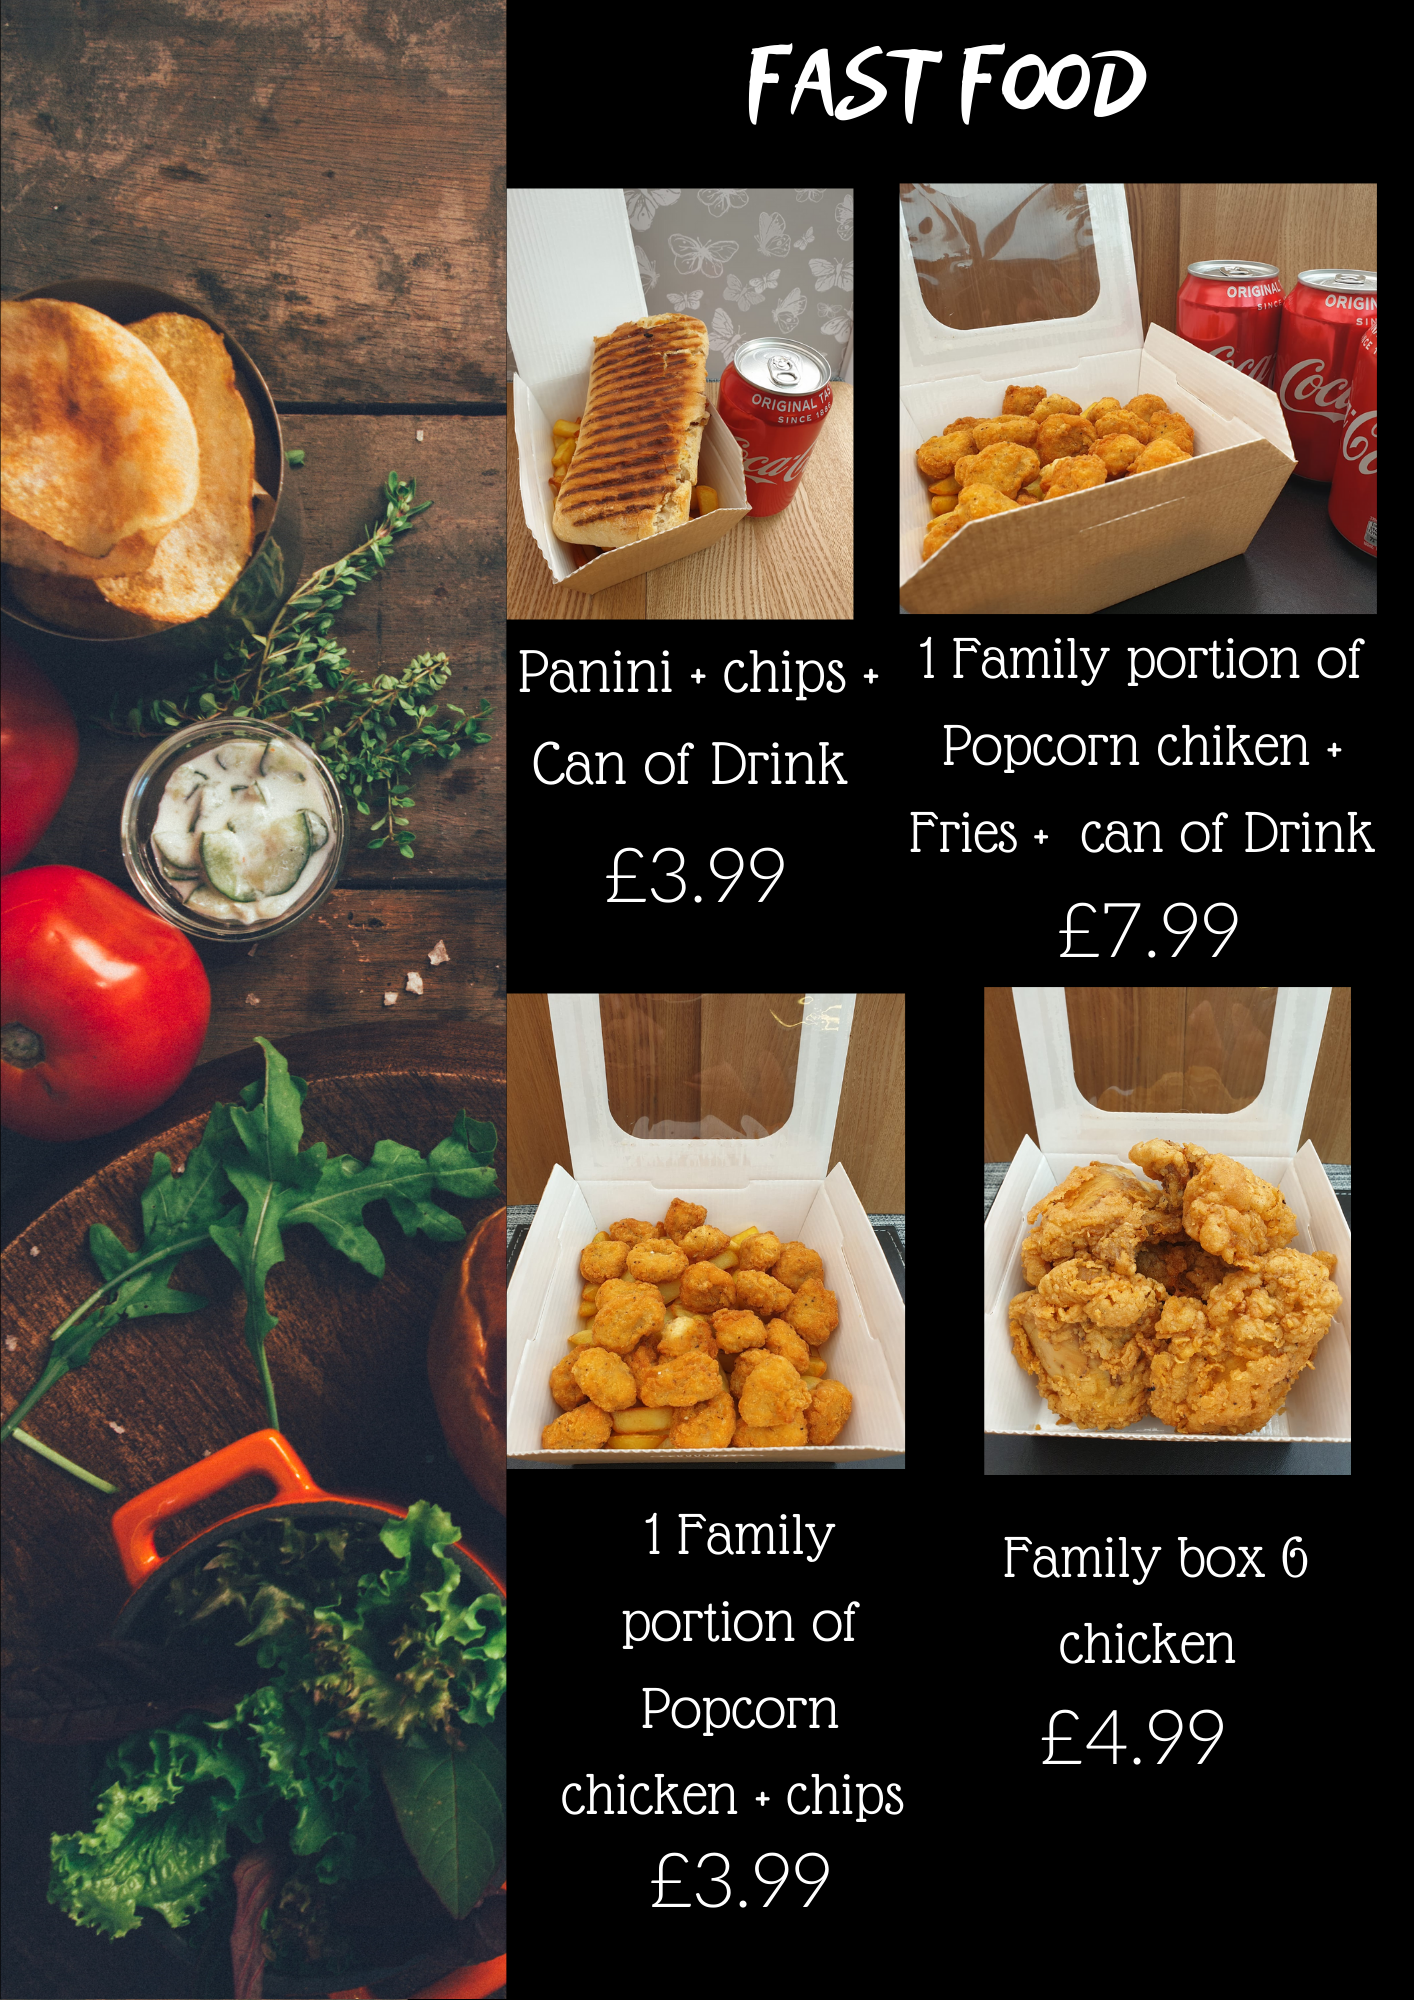
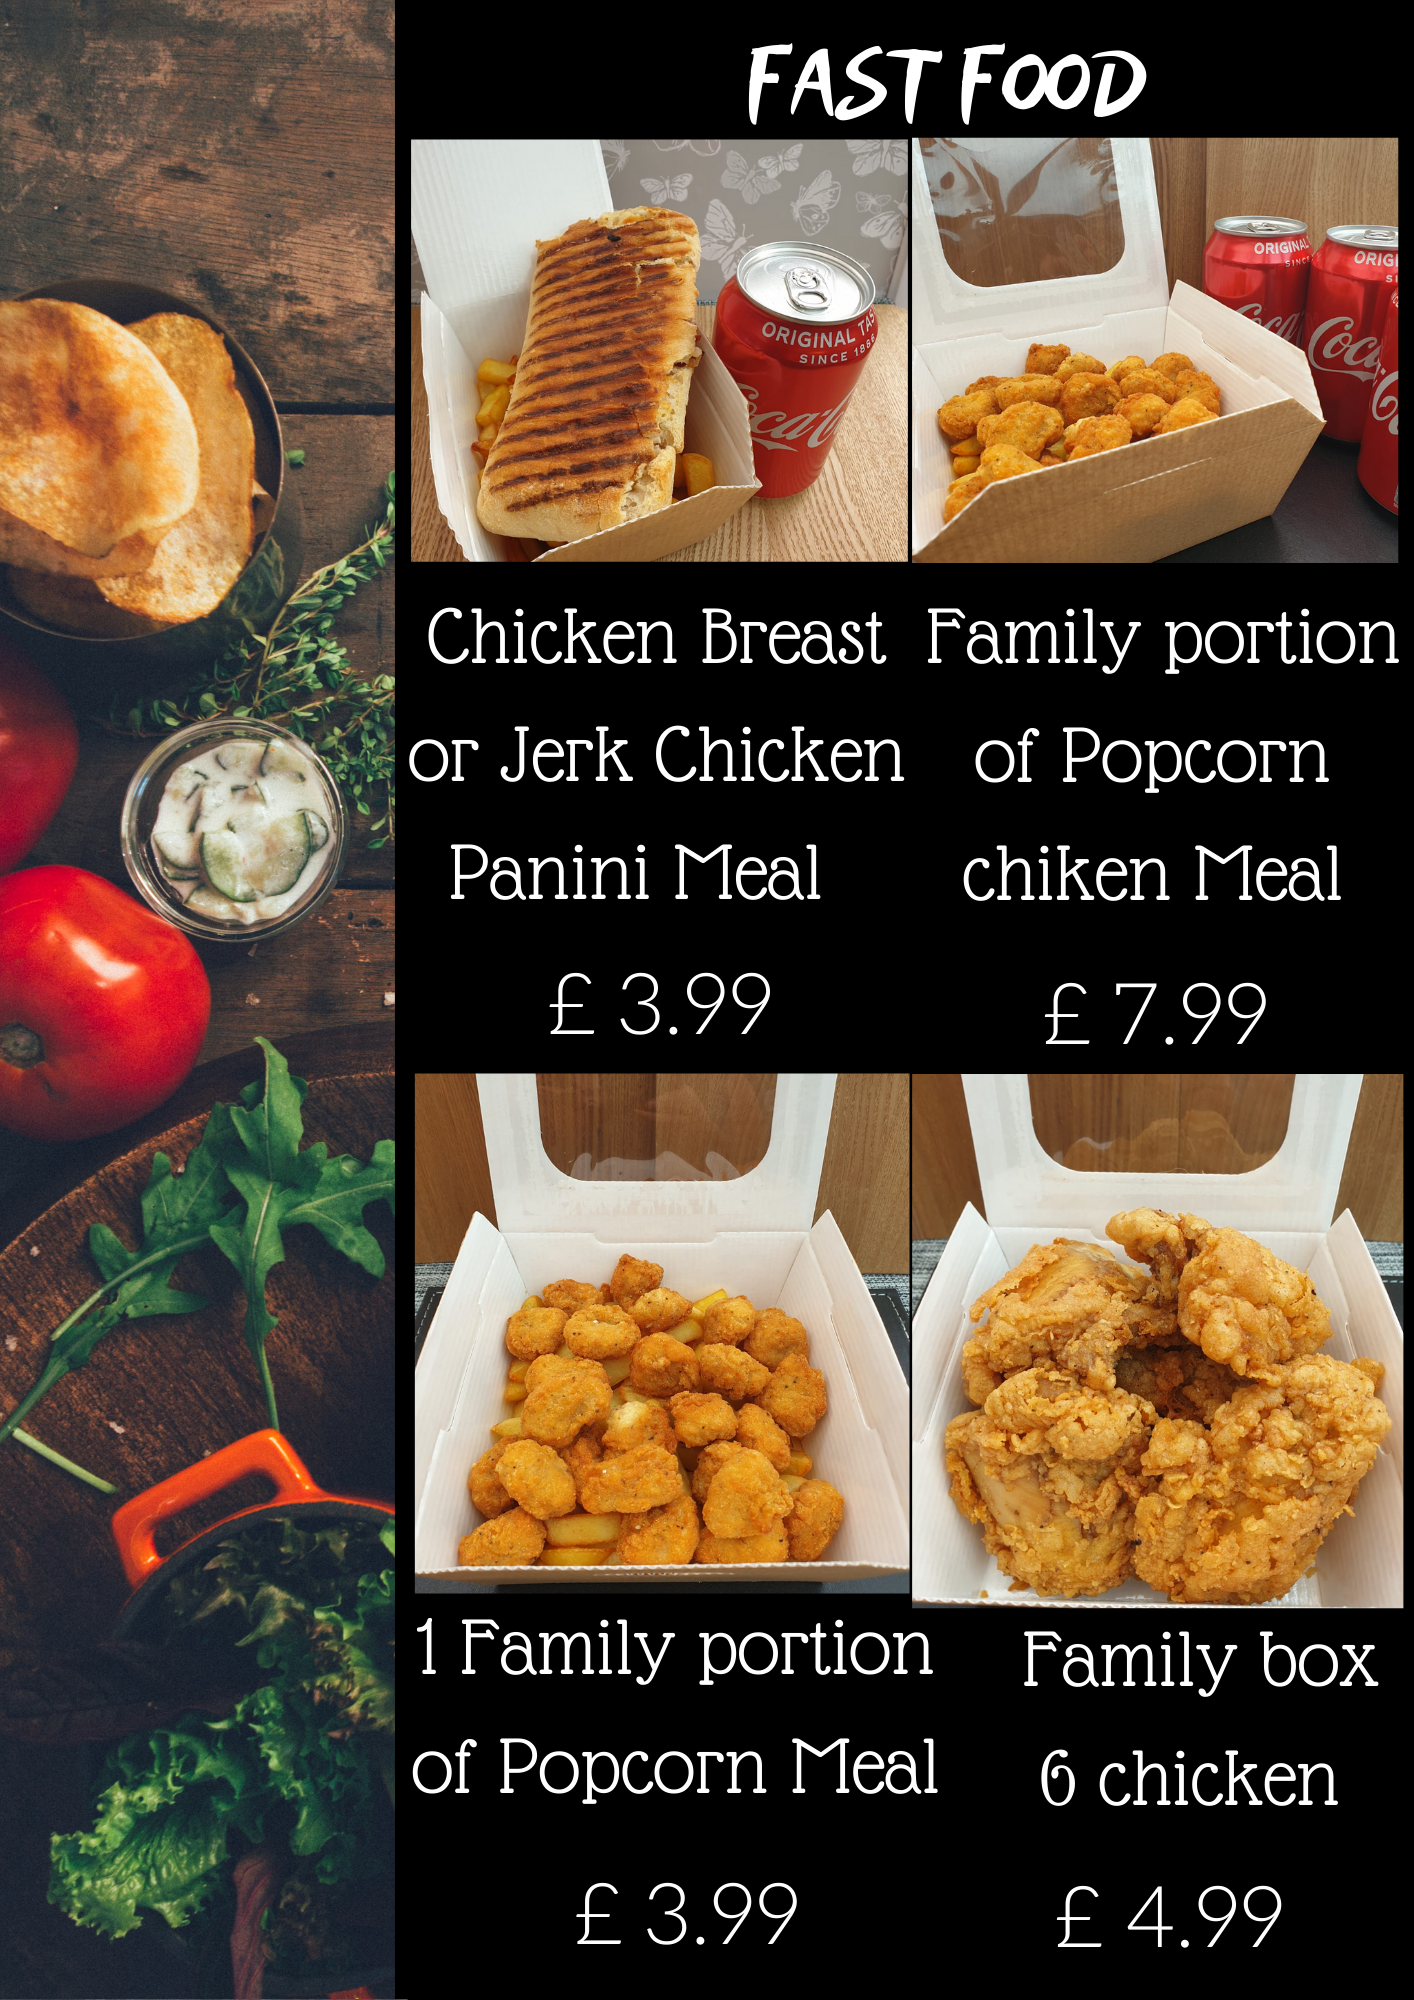
imagenes modificadas

diff --git a/pag/platos.html b/pag/platos.html
@@ -41,63 +41,63 @@
     <div class="carousel-item active">
       <img src="../img/platos/1.png" class="d-block w-100" alt="...">
       <div class="carousel-caption d-none d-md-block">
-        <h5>First slide label</h5>
-        <p>Nulla vitae elit libero, a pharetra augue mollis interdum.</p>
+        <h5></h5>
+        <p></p>
       </div>
     </div>
     <div class="carousel-item">
       <img src="../img/platos/2.png" class="d-block w-100" alt="...">
       <div class="carousel-caption d-none d-md-block">
-        <h5>Second slide label</h5>
-        <p>Lorem ipsum dolor sit amet, consectetur adipiscing elit.</p>
+        <h5></h5>
+        <p></p>
       </div>
     </div>
 
     <div class="carousel-item">
       <img src="../img/platos/3.png" class="d-block w-100" alt="...">
       <div class="carousel-caption d-none d-md-block">
-        <h5>Second slide label</h5>
-        <p>Lorem ipsum dolor sit amet, consectetur adipiscing elit.</p>
+        <h5></h5>
+        <p></p>
       </div>
     </div>
 
     <div class="carousel-item">
       <img src="../img/platos/4.png" class="d-block w-100" alt="...">
       <div class="carousel-caption d-none d-md-block">
-        <h5>Second slide label</h5>
-        <p>Lorem ipsum dolor sit amet, consectetur adipiscing elit.</p>
+        <h5></h5>
+        <p></p>
       </div>
     </div>
 
     <div class="carousel-item">
       <img src="../img/platos/5.png" class="d-block w-100" alt="...">
       <div class="carousel-caption d-none d-md-block">
-        <h5>Second slide label</h5>
-        <p>Lorem ipsum dolor sit amet, consectetur adipiscing elit.</p>
+        <h5></h5>
+        <p></p>
       </div>
     </div>
 
     <div class="carousel-item">
       <img src="../img/platos/6.png" class="d-block w-100" alt="...">
       <div class="carousel-caption d-none d-md-block">
-        <h5>Second slide label</h5>
-        <p>Lorem ipsum dolor sit amet, consectetur adipiscing elit.</p>
+        <h5></h5>
+        <p></p>
       </div>
     </div>
 
     <div class="carousel-item">
       <img src="../img/platos/7.png" class="d-block w-100" alt="...">
       <div class="carousel-caption d-none d-md-block">
-        <h5>Second slide label</h5>
-        <p>Lorem ipsum dolor sit amet, consectetur adipiscing elit.</p>
+        <h5></h5>
+        <p></p>
       </div>
     </div>
 
     <div class="carousel-item">
       <img src="../img/platos/8.png" class="d-block w-100" alt="...">
       <div class="carousel-caption d-none d-md-block">
-        <h5>Third slide label</h5>
-        <p>Praesent commodo cursus magna, vel scelerisque nisl consectetur.</p>
+        <h5></h5>
+        <p></p>
       </div>
     </div>
   </div>

diff --git a/pag/bebidas.html b/pag/bebidas.html
@@ -41,39 +41,39 @@
     <div class="carousel-item active">
       <img src="../img/bebidas/1.png" class="d-block w-100" alt="...">
       <div class="carousel-caption d-none d-md-block">
-        <h5>First slide label</h5>
-        <p>Nulla vitae elit libero, a pharetra augue mollis interdum.</p>
+        <h5></h5>
+        <p></p>
       </div>
     </div>
     <div class="carousel-item">
       <img src="../img/bebidas/2.png" class="d-block w-100" alt="...">
       <div class="carousel-caption d-none d-md-block">
-        <h5>Second slide label</h5>
-        <p>Lorem ipsum dolor sit amet, consectetur adipiscing elit.</p>
+        <h5></h5>
+        <p></p>
       </div>
     </div>
 
     <div class="carousel-item">
       <img src="../img/bebidas/3.png" class="d-block w-100" alt="...">
       <div class="carousel-caption d-none d-md-block">
-        <h5>Second slide label</h5>
-        <p>Lorem ipsum dolor sit amet, consectetur adipiscing elit.</p>
+        <h5></h5>
+        <p></p>
       </div>
     </div>
 
     <div class="carousel-item">
       <img src="../img/bebidas/4.png" class="d-block w-100" alt="...">
       <div class="carousel-caption d-none d-md-block">
-        <h5>Second slide label</h5>
-        <p>Lorem ipsum dolor sit amet, consectetur adipiscing elit.</p>
+        <h5></h5>
+        <p></p>
       </div>
     </div>
 
     <div class="carousel-item">
       <img src="../img/bebidas/5.png" class="d-block w-100" alt="...">
       <div class="carousel-caption d-none d-md-block">
-        <h5>Second slide label</h5>
-        <p>Lorem ipsum dolor sit amet, consectetur adipiscing elit.</p>
+        <h5></h5>
+        <p></p>
       </div>
     </div>
 
@@ -81,16 +81,16 @@
     <div class="carousel-item">
       <img src="../img/bebidas/6.png" class="d-block w-100" alt="...">
       <div class="carousel-caption d-none d-md-block">
-        <h5>Second slide label</h5>
-        <p>Lorem ipsum dolor sit amet, consectetur adipiscing elit.</p>
+        <h5></h5>
+        <p></p>
       </div>
     </div>
 
     <div class="carousel-item">
       <img src="../img/bebidas/7.png" class="d-block w-100" alt="...">
       <div class="carousel-caption d-none d-md-block">
-        <h5>Second slide label</h5>
-        <p>Lorem ipsum dolor sit amet, consectetur adipiscing elit.</p>
+        <h5></h5>
+        <p></p>
       </div>
     </div>
     

diff --git a/pag/foodfast.html b/pag/foodfast.html
@@ -41,47 +41,47 @@
     <div class="carousel-item active">
       <img src="../img/foodfast/1.png" class="d-block w-100" alt="...">
       <div class="carousel-caption d-none d-md-block">
-        <h5>First slide label</h5>
-        <p>Nulla vitae elit libero, a pharetra augue mollis interdum.</p>
+        <h5></h5>
+        <p></p>
       </div>
     </div>
     <div class="carousel-item">
       <img src="../img/foodfast/2.png" class="d-block w-100" alt="...">
       <div class="carousel-caption d-none d-md-block">
-        <h5>Second slide label</h5>
-        <p>Lorem ipsum dolor sit amet, consectetur adipiscing elit.</p>
+        <h5></h5>
+        <p></p>
       </div>
     </div>
 
     <div class="carousel-item">
       <img src="../img/foodfast/3.png" class="d-block w-100" alt="...">
       <div class="carousel-caption d-none d-md-block">
-        <h5>Second slide label</h5>
-        <p>Lorem ipsum dolor sit amet, consectetur adipiscing elit.</p>
+        <h5></h5>
+        <p></p>
       </div>
     </div>
 
     <div class="carousel-item">
       <img src="../img/foodfast/4.png" class="d-block w-100" alt="...">
       <div class="carousel-caption d-none d-md-block">
-        <h5>Second slide label</h5>
-        <p>Lorem ipsum dolor sit amet, consectetur adipiscing elit.</p>
+        <h5></h5>
+        <p></p>
       </div>
     </div>
 
     <div class="carousel-item">
       <img src="../img/foodfast/5.png" class="d-block w-100" alt="...">
       <div class="carousel-caption d-none d-md-block">
-        <h5>Second slide label</h5>
-        <p>Lorem ipsum dolor sit amet, consectetur adipiscing elit.</p>
+        <h5></h5>
+        <p></p>
       </div>
     </div>
 
     <div class="carousel-item">
       <img src="../img/foodfast/6.png" class="d-block w-100" alt="...">
       <div class="carousel-caption d-none d-md-block">
-        <h5>Second slide label</h5>
-        <p>Lorem ipsum dolor sit amet, consectetur adipiscing elit.</p>
+        <h5></h5>
+        <p></p>
       </div>
     </div>
 

diff --git a/pag/postre.html b/pag/postre.html
@@ -39,31 +39,31 @@
     <div class="carousel-item active">
       <img src="../img/postre/1.png" class="d-block w-100" alt="...">
       <div class="carousel-caption d-none d-md-block">
-        <h5>First slide label</h5>
-        <p>Nulla vitae elit libero, a pharetra augue mollis interdum.</p>
+        <h5></h5>
+        <p></p>
       </div>
     </div>
     <div class="carousel-item">
       <img src="../img/postre/2.png" class="d-block w-100" alt="...">
       <div class="carousel-caption d-none d-md-block">
-        <h5>Second slide label</h5>
-        <p>Lorem ipsum dolor sit amet, consectetur adipiscing elit.</p>
+        <h5></h5>
+        <p></p>
       </div>
     </div>
 
     <div class="carousel-item">
       <img src="../img/postre/3.png" class="d-block w-100" alt="...">
       <div class="carousel-caption d-none d-md-block">
-        <h5>Second slide label</h5>
-        <p>Lorem ipsum dolor sit amet, consectetur adipiscing elit.</p>
+        <h5></h5>
+        <p></p>
       </div>
     </div>
 
     <div class="carousel-item">
       <img src="../img/postre/4.png" class="d-block w-100" alt="...">
       <div class="carousel-caption d-none d-md-block">
-        <h5>Second slide label</h5>
-        <p>Lorem ipsum dolor sit amet, consectetur adipiscing elit.</p>
+        <h5></h5>
+        <p></p>
       </div>
     </div>
     
